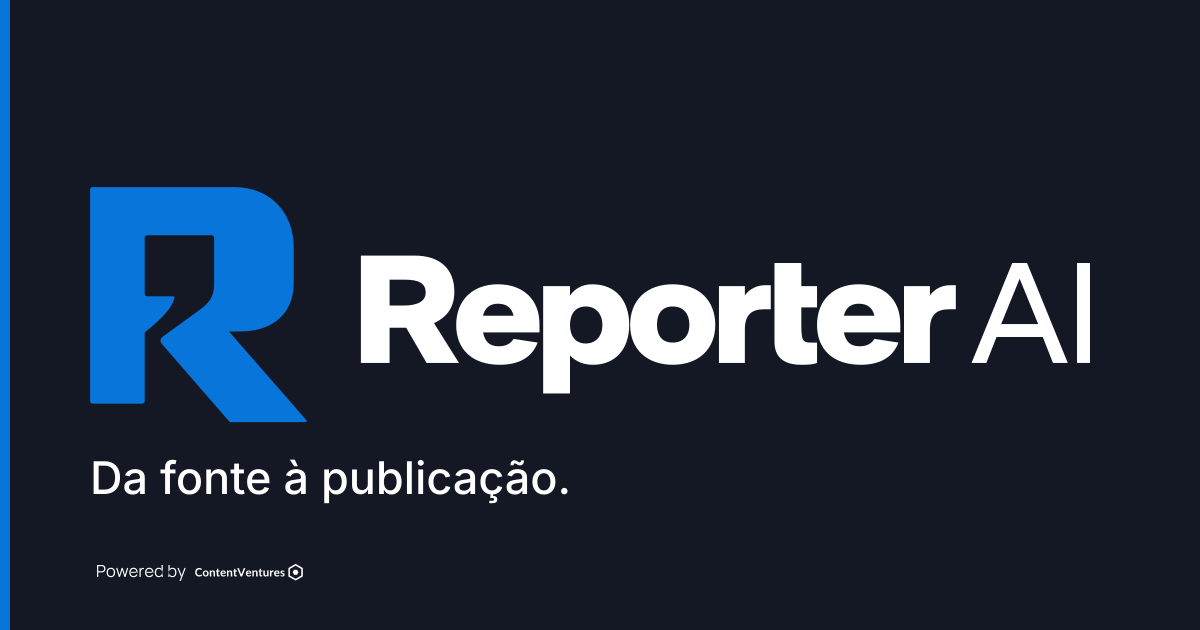
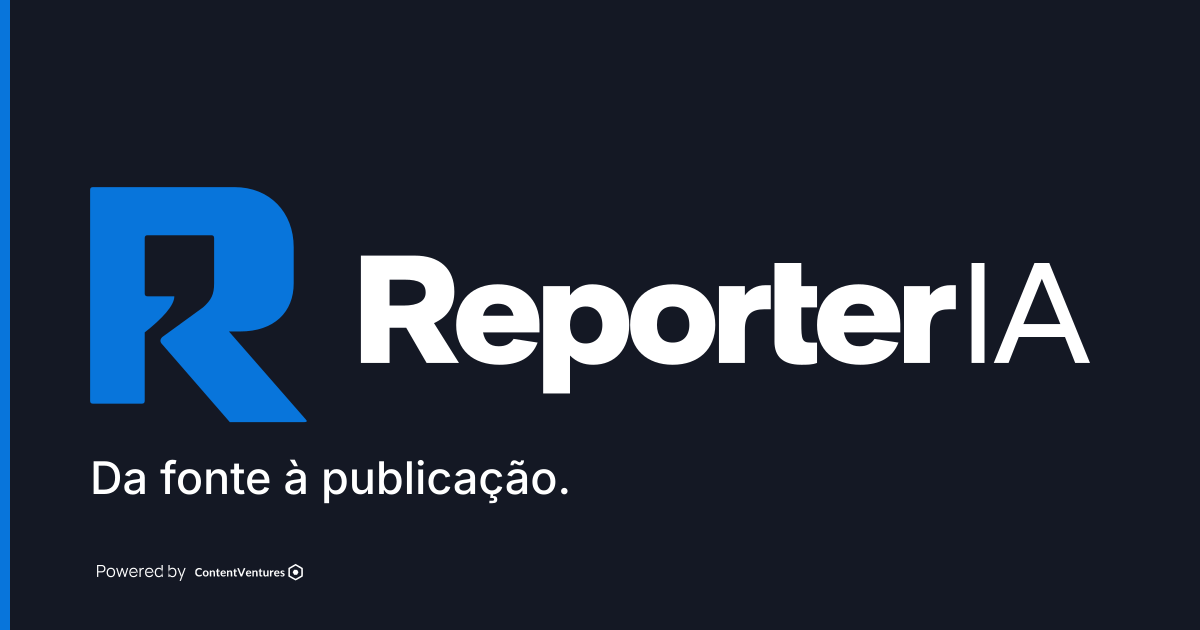
fix(brand): apply the Reporter IA artwork
The menu, sign-in and share artwork now read "Reporter IA". The two
lockups are renamed reporter-ia.svg and reporter-ia-powered.svg, and the
share card and Open Graph image come from the approved brand package. The
R mark, favicon and app icons were already right and stay as they are.

Changed region(s): [[0.8017, 0.4222, 0.925, 0.573]]

diff --git a/src/ui/reporter-brand.tsx b/src/ui/reporter-brand.tsx
@@ -15,10 +15,10 @@ export function ReporterBrand({ signature = false, endorsed = false }: { signatu
   const artwork = compact
     ? { src: '/icon.svg', width: 32, height: 32 }
     : signature
-      ? { src: '/brand/reporter-ai-powered.svg', width: 264, height: 78 }
+      ? { src: '/brand/reporter-ia-powered.svg', width: 264, height: 78 }
       : endorsed
-        ? { src: '/brand/reporter-ai-powered.svg', width: 128, height: 38 }
-        : { src: '/brand/reporter-ai.svg', width: 180, height: 49 };
+        ? { src: '/brand/reporter-ia-powered.svg', width: 128, height: 38 }
+        : { src: '/brand/reporter-ia.svg', width: 180, height: 49 };
   const powered = signature || (endorsed && !compact);
 
   return (
